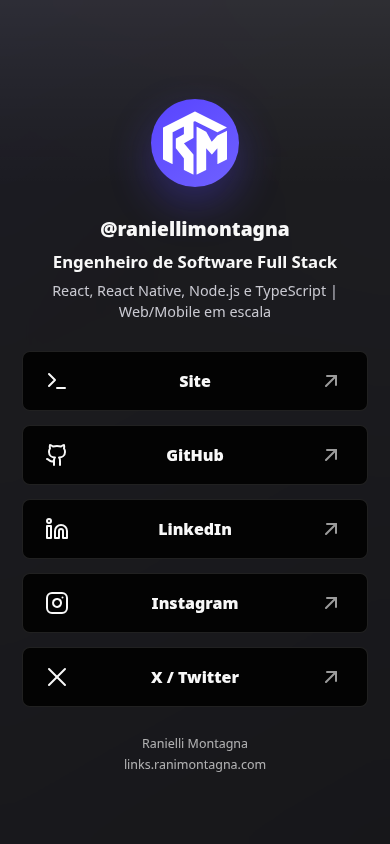
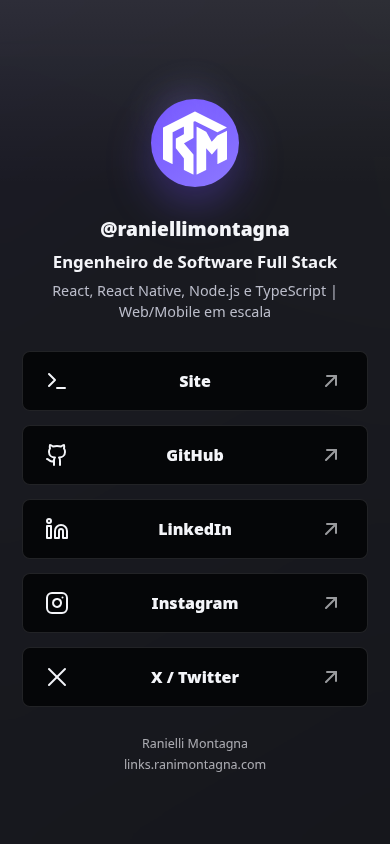
feat: add motion polish

Changed region(s): [[0.3692, 0.0924, 0.6154, 0.2464]]

diff --git a/src/styles/global.css b/src/styles/global.css
@@ -1,15 +1,19 @@
 :root {
   color-scheme: dark;
-  --bg: #101010;
-  --panel: rgba(26, 26, 30, 0.84);
-  --panel-border: rgba(255, 255, 255, 0.1);
-  --text: #f8f8f8;
-  --muted: #c9c9d1;
-  --button: #030303;
-  --button-hover: #141418;
-  --button-border: rgba(255, 255, 255, 0.12);
-  --brand: #5844ff;
-  --focus: #8f82ff;
+  --bg: oklch(0.16 0.008 278);
+  --panel: oklch(0.22 0.012 278 / 84%);
+  --panel-border: oklch(0.98 0.006 278 / 10%);
+  --text: oklch(0.97 0.006 278);
+  --muted: oklch(0.8 0.018 278);
+  --button: oklch(0.12 0.008 278);
+  --button-hover: oklch(0.2 0.015 278);
+  --button-border: oklch(0.98 0.006 278 / 12%);
+  --brand: oklch(0.58 0.25 284);
+  --brand-bright: oklch(0.68 0.23 284);
+  --focus: oklch(0.74 0.16 284);
+  --ease-out-quart: cubic-bezier(0.25, 1, 0.5, 1);
+  --ease-out-quint: cubic-bezier(0.22, 1, 0.36, 1);
+  --ease-out-expo: cubic-bezier(0.16, 1, 0.3, 1);
 }
 
 * {
@@ -33,9 +37,10 @@ body {
     "Segoe UI",
     sans-serif;
   background:
-    linear-gradient(145deg, rgba(88, 68, 255, 0.24) 0%, transparent 34%),
-    linear-gradient(230deg, rgba(255, 255, 255, 0.07) 0%, transparent 42%),
-    linear-gradient(150deg, #161616 0%, #202024 42%, #09090b 100%);
+    linear-gradient(145deg, oklch(0.58 0.25 284 / 24%) 0%, transparent 34%),
+    linear-gradient(230deg, oklch(0.98 0.006 278 / 7%) 0%, transparent 42%),
+    linear-gradient(150deg, oklch(0.18 0.009 278) 0%, oklch(0.23 0.011 278) 42%, oklch(0.13 0.008 278) 100%);
+  animation: scene-wake 800ms var(--ease-out-expo) both;
 }
 
 body::before {
@@ -45,10 +50,11 @@ body::before {
   content: "";
   opacity: 0.22;
   background-image:
-    linear-gradient(rgba(255, 255, 255, 0.04) 1px, transparent 1px),
-    linear-gradient(90deg, rgba(255, 255, 255, 0.035) 1px, transparent 1px);
+    linear-gradient(oklch(0.98 0.006 278 / 4%) 1px, transparent 1px),
+    linear-gradient(90deg, oklch(0.98 0.006 278 / 3.5%) 1px, transparent 1px);
   background-size: 34px 34px;
   mask-image: linear-gradient(180deg, transparent, black 16%, black 84%, transparent);
+  animation: grid-drift 16s linear infinite;
 }
 
 a {
@@ -75,32 +81,59 @@ a {
   border: 1px solid var(--panel-border);
   border-radius: 8px;
   background:
-    linear-gradient(180deg, rgba(255, 255, 255, 0.08), transparent 22%),
+    linear-gradient(180deg, oklch(0.98 0.006 278 / 8%), transparent 22%),
     var(--panel);
-  box-shadow: 0 24px 80px rgba(0, 0, 0, 0.42);
+  box-shadow: 0 24px 80px oklch(0.02 0.006 278 / 42%);
   backdrop-filter: blur(18px);
+  animation: card-arrive 680ms var(--ease-out-expo) 80ms both;
 }
 
 .brand-mark {
+  position: relative;
   width: 96px;
   height: 96px;
   display: grid;
   place-items: center;
   align-self: center;
   border-radius: 999px;
-  background: linear-gradient(145deg, var(--brand), #6f61ff);
-  box-shadow: 0 18px 44px rgba(88, 68, 255, 0.32);
+  background: linear-gradient(145deg, var(--brand), var(--brand-bright));
+  box-shadow: 0 18px 44px oklch(0.58 0.25 284 / 32%);
+  isolation: isolate;
+  animation: brand-arrive 720ms var(--ease-out-expo) 240ms both;
+}
+
+.brand-mark::after {
+  position: absolute;
+  inset: -10px;
+  z-index: -1;
+  border-radius: inherit;
+  content: "";
+  background: conic-gradient(
+    from 210deg,
+    transparent,
+    oklch(0.74 0.16 284 / 32%),
+    transparent 34%
+  );
+  filter: blur(18px);
+  opacity: 0.72;
+  animation: halo-turn 8s linear infinite;
 }
 
 .brand-mark img {
   width: 64px;
   height: 64px;
+  transition: transform 220ms var(--ease-out-quint);
+}
+
+.brand-mark:hover img {
+  transform: scale(1.05) rotate(-3deg);
 }
 
 .profile-copy {
   display: grid;
   gap: 8px;
   text-align: center;
+  animation: copy-rise 620ms var(--ease-out-quint) 360ms both;
 }
 
 .handle {
@@ -130,6 +163,7 @@ h1 {
 
 .link-button {
   min-height: 64px;
+  position: relative;
   display: grid;
   grid-template-columns: 42px 1fr 42px;
   align-items: center;
@@ -143,16 +177,48 @@ h1 {
   font-weight: 800;
   text-align: center;
   text-decoration: none;
+  overflow: hidden;
+  animation: link-rise 520ms var(--ease-out-quint) both;
+  animation-delay: calc(460ms + (var(--index) * 70ms));
   transition:
-    transform 160ms ease,
-    border-color 160ms ease,
-    background 160ms ease;
+    transform 180ms var(--ease-out-quart),
+    border-color 180ms var(--ease-out-quart),
+    background 180ms var(--ease-out-quart),
+    box-shadow 180ms var(--ease-out-quart);
+}
+
+.link-button::before {
+  position: absolute;
+  inset: 1px;
+  border-radius: 7px;
+  content: "";
+  background: linear-gradient(
+    105deg,
+    transparent 0%,
+    oklch(0.98 0.006 278 / 9%) 44%,
+    transparent 62%
+  );
+  opacity: 0;
+  transform: translateX(-38%);
+  transition:
+    opacity 220ms var(--ease-out-quart),
+    transform 420ms var(--ease-out-expo);
 }
 
 .link-button:hover {
-  transform: translateY(-2px);
-  border-color: rgba(255, 255, 255, 0.22);
+  transform: translateY(-3px);
+  border-color: oklch(0.98 0.006 278 / 22%);
   background: var(--button-hover);
+  box-shadow: 0 12px 28px oklch(0.02 0.006 278 / 34%);
+}
+
+.link-button:hover::before {
+  opacity: 1;
+  transform: translateX(38%);
+}
+
+.link-button:active {
+  transform: translateY(-1px) scale(0.99);
 }
 
 .link-button:focus-visible {
@@ -175,10 +241,19 @@ h1 {
   stroke-linecap: round;
   stroke-linejoin: round;
   stroke-width: 2;
+  transition: transform 180ms var(--ease-out-quart);
+}
+
+.link-button:hover .link-icon:first-child svg {
+  transform: translateX(2px);
 }
 
 .link-icon--right {
   opacity: 0.62;
+}
+
+.link-button:hover .link-icon--right svg {
+  transform: translate(2px, -2px);
 }
 
 .link-label {
@@ -190,14 +265,99 @@ h1 {
   display: flex;
   justify-content: center;
   gap: 12px;
-  color: rgba(255, 255, 255, 0.66);
+  color: oklch(0.98 0.006 278 / 66%);
   font-size: 0.78rem;
+  animation: copy-rise 520ms var(--ease-out-quint) 850ms both;
 }
 
 .footer-note span + span::before {
   padding-right: 12px;
   content: "/";
-  color: rgba(255, 255, 255, 0.34);
+  color: oklch(0.98 0.006 278 / 34%);
+}
+
+@keyframes scene-wake {
+  from {
+    background-position:
+      -80px -80px,
+      80px 80px,
+      0 0;
+  }
+
+  to {
+    background-position:
+      0 0,
+      0 0,
+      0 0;
+  }
+}
+
+@keyframes grid-drift {
+  from {
+    background-position: 0 0;
+  }
+
+  to {
+    background-position: 34px 34px;
+  }
+}
+
+@keyframes card-arrive {
+  from {
+    opacity: 0;
+    transform: translateY(22px) scale(0.985);
+  }
+
+  to {
+    opacity: 1;
+    transform: translateY(0) scale(1);
+  }
+}
+
+@keyframes brand-arrive {
+  from {
+    opacity: 0;
+    transform: translateY(14px) scale(0.86);
+  }
+
+  to {
+    opacity: 1;
+    transform: translateY(0) scale(1);
+  }
+}
+
+@keyframes halo-turn {
+  from {
+    transform: rotate(0deg);
+  }
+
+  to {
+    transform: rotate(360deg);
+  }
+}
+
+@keyframes copy-rise {
+  from {
+    opacity: 0;
+    transform: translateY(12px);
+  }
+
+  to {
+    opacity: 1;
+    transform: translateY(0);
+  }
+}
+
+@keyframes link-rise {
+  from {
+    opacity: 0;
+    transform: translateY(14px);
+  }
+
+  to {
+    opacity: 1;
+    transform: translateY(0);
+  }
 }
 
 @media (max-width: 520px) {
@@ -237,6 +397,15 @@ h1 {
 }
 
 @media (prefers-reduced-motion: reduce) {
+  *,
+  *::before,
+  *::after {
+    animation-duration: 0.01ms !important;
+    animation-iteration-count: 1 !important;
+    scroll-behavior: auto !important;
+    transition-duration: 0.01ms !important;
+  }
+
   .link-button {
     transition: none;
   }

diff --git a/PRODUCT.md b/PRODUCT.md
@@ -1,0 +1,33 @@
+# Product
+
+## Register
+
+brand
+
+## Users
+
+Visitors arriving from social profile bios, recruiters, peers, and potential collaborators who need a fast path to Ranielli Montagna's main public links from mobile or desktop.
+
+## Product Purpose
+
+This site is a first-party personal links page for `links.ranimontagna.com`. It replaces a third-party Linktree profile with an owned, static, branded, high-performance page that points people to the portfolio, GitHub, LinkedIn, Instagram, and X / Twitter.
+
+## Brand Personality
+
+Technical, focused, and polished. The interface should feel familiar enough for social bio traffic, but more deliberate and owned than a generic link aggregator.
+
+## Anti-references
+
+Avoid Linktree platform chrome, generic template cards, noisy decorative animation, fake terminal overload, gradient text, glassmorphism as decoration, and motion that delays access to links.
+
+## Design Principles
+
+- First-party credibility: the page should clearly feel owned by the Ranielli Montagna brand.
+- Fast path to action: links remain the main interface and should never be hidden behind motion.
+- Technical restraint: animation and styling should communicate precision, not novelty for its own sake.
+- Mobile-first confidence: the page must feel complete and stable in a social-bio mobile context.
+- Accessible by default: reduced motion, contrast, keyboard focus, and readable hierarchy are non-negotiable.
+
+## Accessibility & Inclusion
+
+Respect `prefers-reduced-motion`, keep semantic links, preserve visible focus states, maintain strong contrast on the dark surface, and avoid horizontal overflow on small screens.
